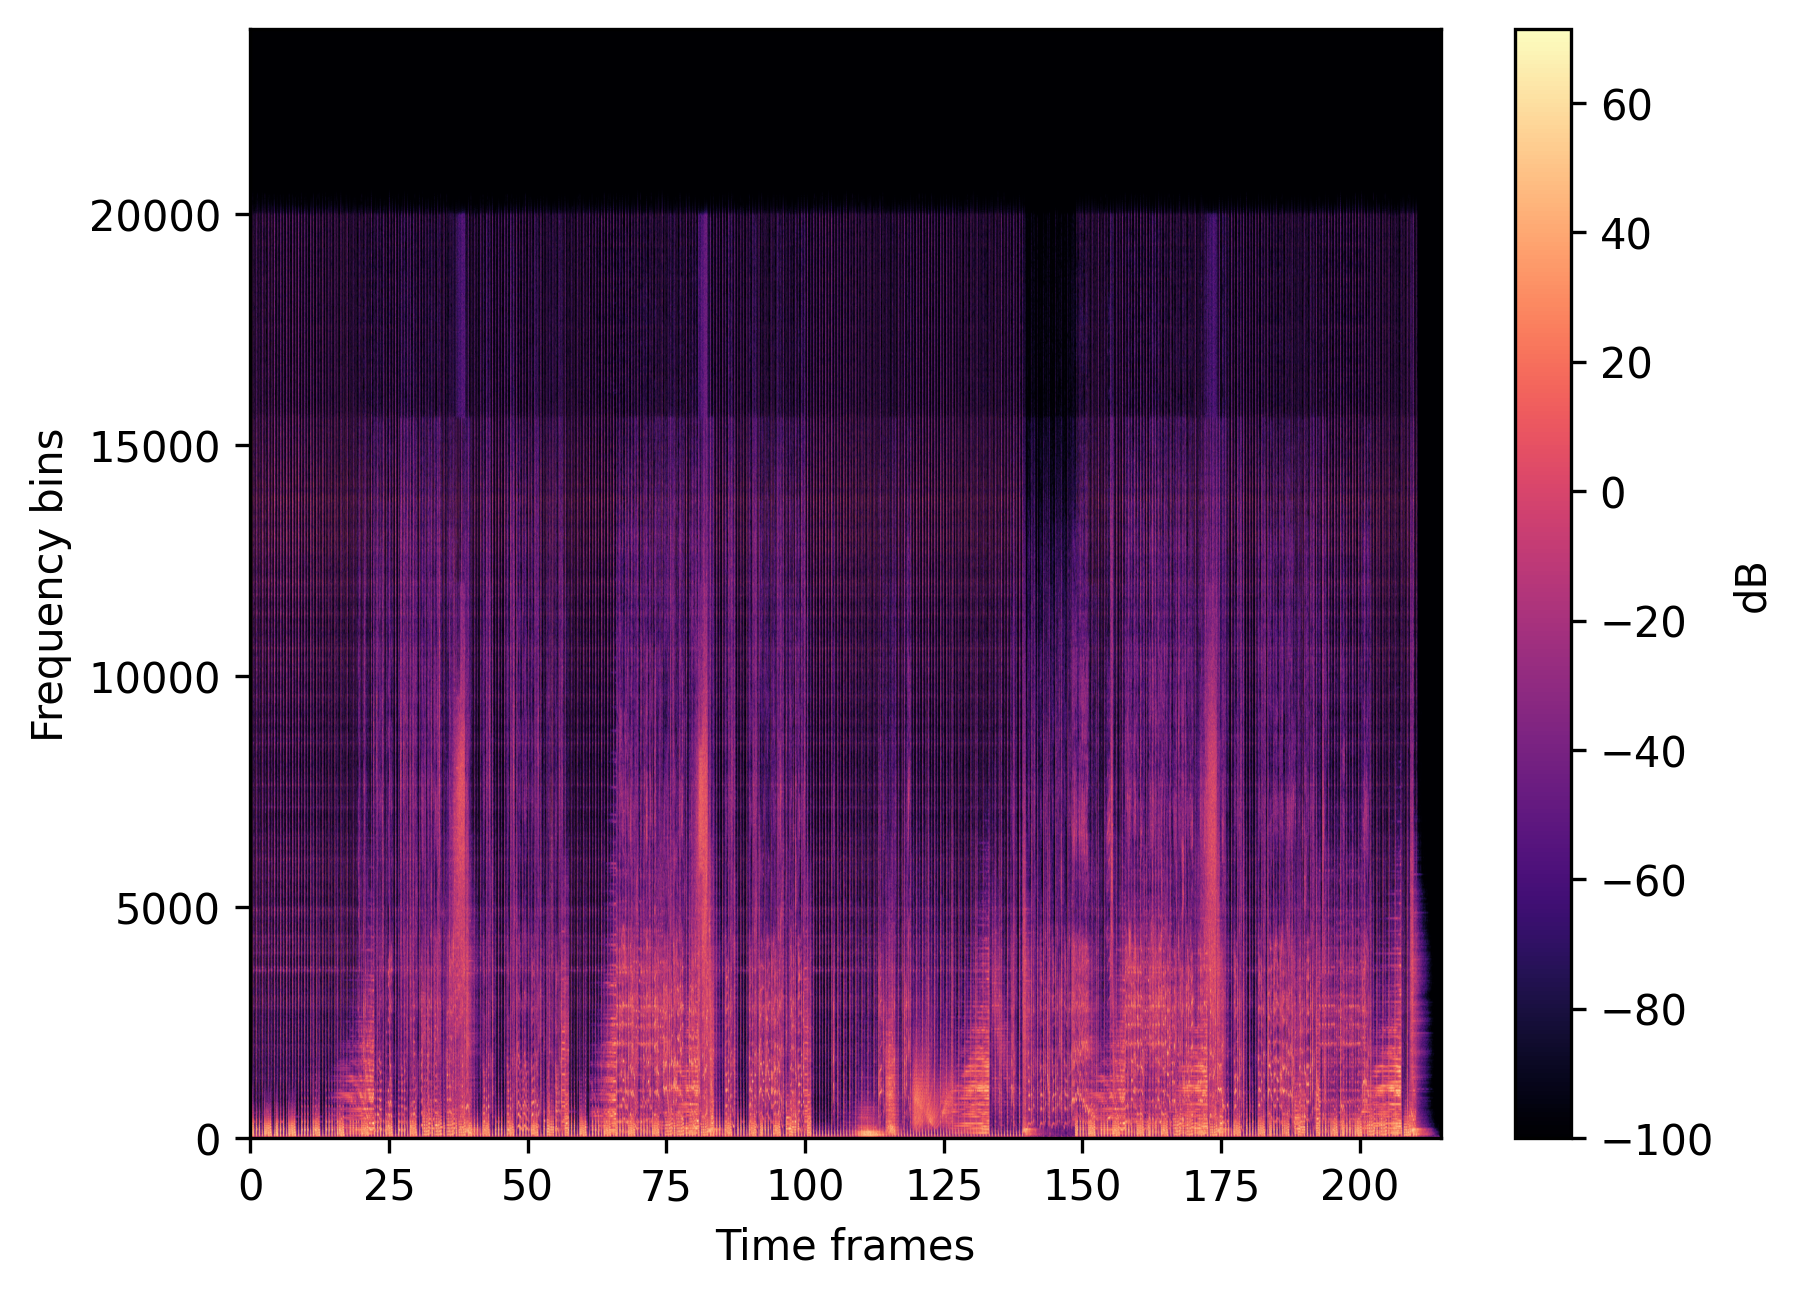
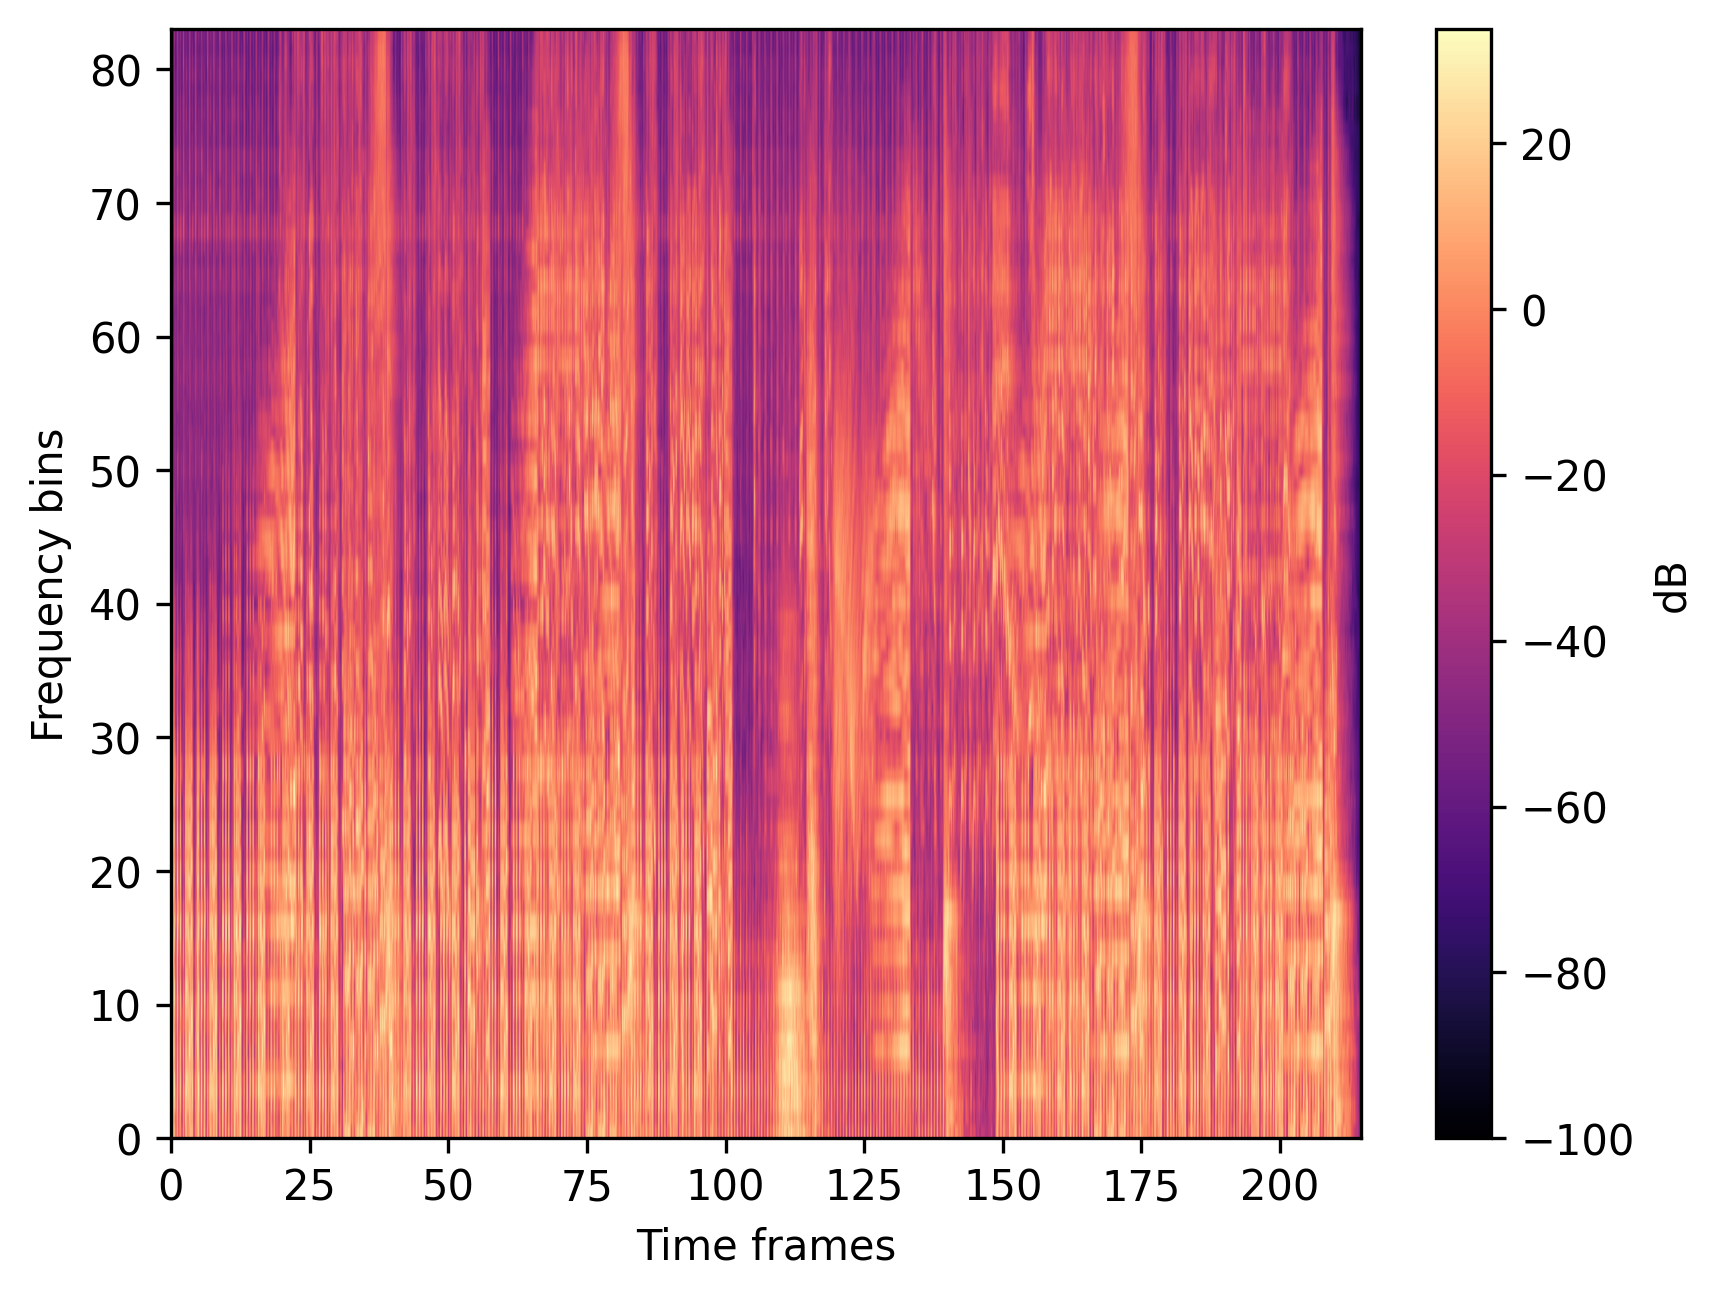
beginning work on hmm/viterbi

diff --git a/BPM_estimation_proj/src/components/note_detection/note_detection.py b/BPM_estimation_proj/src/components/note_detection/note_detection.py
@@ -8,7 +8,7 @@ from ..visualization import display_spectrogram, display_chromagram, display_ssm
 from .ssm import self_similarity_matrix
 
 
-def chord_analyzer(path, filename):
+def stft_chord_analyzer(path, filename):
     try:
         y, sample_rate = librosa.load(path, sr=None)
     except FileNotFoundError:
@@ -23,18 +23,18 @@ def chord_analyzer(path, filename):
     hop_time = hop_len / sample_rate
     
     spectrum = spectrogram(framed_audio)
-
+    print("spectrogram done")
     display_spectrogram(spectrum, hop_time, filename, bin_size)
 
     spectrum = freq_range(spectrum, frame_len, sample_rate, hop_len)
 
     #start freq must be a multiple of the bin_size for accuracy
     sheet = note_detection(spectrum.full_range[round(bin_size*frame_len/sample_rate):], bin_size, start_freq=bin_size)
-
+    print("chromagram done")
     display_chromagram(sheet, filename)
 
     chord_analysis, max_chord_analysis, chord_string, labels = match_chord(sheet)
-    print(labels)
+    print("chordogram done")
 
     display_chords(max_chord_analysis, numpy.array(labels), filename)
 
@@ -49,8 +49,45 @@ def chord_analyzer(path, filename):
 
     display_ssm(sheet, hop_time, filename, factor)
 
-    print("would you like to analyze another song? (y/n)")
-    choice = input().lower()
+    choice = input("Would you like to analyze another song? (y/n): ")
+    choice = choice.lower()
+    if choice == 'y':
+        return True
+    else:
+        print("Thank you for using the BPM estimator!")
+        return False
+
+def cqt_chord_analyzer(path, filename):
+    try:
+        y, sample_rate = librosa.load(path, sr=None)
+    except FileNotFoundError:
+        print("File not found. Please check the file name and try again.")
+        return True
+    print(sample_rate)
+
+    y_harmonic, y_percussive = librosa.effects.hpss(y)
+    tuning = librosa.estimate_tuning(y=y_harmonic, sr=sample_rate)
+    fmin = librosa.note_to_hz('C1') * 2**(tuning / 12)
+    hop_len = 512
+    hop_time = hop_len/sample_rate
+
+    cqt = numpy.abs(librosa.cqt(y_harmonic, hop_length=hop_len, fmin=fmin, tuning=None))
+
+    display_spectrogram(cqt, hop_time, filename)
+
+    chromagram = cqt.reshape(7,12,cqt.shape[1]).sum(axis=0)
+
+    display_chromagram(chromagram, filename, hop_time)
+
+    chord_analysis, max_chord_analysis, chord_string, labels = match_chord(chromagram)
+    display_chords(max_chord_analysis, numpy.array(labels), filename)
+
+    totals = max_chord_analysis.sum(axis=1)
+    for i in numpy.argsort(totals)[::-1][:6]:
+        print(f"{labels[i]:10} {totals[i]:.1f}")
+    
+    choice = input("Would you like to analyze another song? (y/n): ")
+    choice = choice.lower()
     if choice == 'y':
         return True
     else:

diff --git a/BPM_estimation_proj/src/main.py b/BPM_estimation_proj/src/main.py
@@ -1,5 +1,5 @@
 from src.components.bpm_estimation import bpm_estimation
-from src.components.note_detection.note_detection import chord_analyzer
+from src.components.note_detection.note_detection import stft_chord_analyzer, cqt_chord_analyzer
 
 def main():
     restart = True
@@ -8,14 +8,23 @@ def main():
         filename = input("Please place the audio file in the music folder and enter the file name here: ")
         path = f"music/{filename}"
         while valid_choice:
-            choice = input("For bpm estimation type \"bpm\". For chord analysis type \"chord\".: ")
-            match choice.lower():
-                case "bpm":
+            choice = input("1 for bpm estimation, 2 for chord analysis: ")
+            print(choice)
+            match int(choice):
+                case 1:
                     restart = bpm_estimation(path, filename)
                     valid_choice = False
-                case "chord":
-                    restart = chord_analyzer(path, filename)
-                    valid_choice = False
+                case 2:
+                    choice = input("1 for CQT, 2 for STFT: ")
+                    match int(choice):
+                        case 1:
+                            restart = cqt_chord_analyzer(path, filename)
+                            valid_choice = False
+                        case 2:
+                            restart = stft_chord_analyzer(path, filename)
+                            valid_choice = False
+                        case _:
+                            print("not an option")
                 case _:
                     print("not an option")
         valid_choice = True

diff --git a/BPM_estimation_proj/src/components/visualization.py b/BPM_estimation_proj/src/components/visualization.py
@@ -1,7 +1,7 @@
 import matplotlib.pyplot as plt
 import numpy
 
-def display_spectrogram(spectrum, hop_time, filename, bin_size):
+def display_spectrogram(spectrum, hop_time, filename, bin_size = 1):
     spectrum_db =  20 * numpy.log10((spectrum / numpy.mean(spectrum)) + 1e-10)
     time_scale = numpy.arange(spectrum.shape[1]) * hop_time
     freq_scale = numpy.arange(spectrum.shape[0]) * bin_size
@@ -39,16 +39,16 @@ def display_tempogram(tempogram, bpm_scale, filename):
     plt.savefig(f"charts/{filename}_Tempogram.png", dpi = 300, bbox_inches = "tight")
     plt.clf()
 
-def display_chromagram(sheet, filename):
-    sheet = 20 * numpy.log10(sheet/numpy.max(sheet) + 1e-10)
-    sheet = numpy.maximum(sheet, -100)
+def display_chromagram(sheet, filename, hop_time):
+    sheet = sheet/(sheet.mean(axis=0, keepdims=True) + 1e-9)
+    time_scale = numpy.arange(sheet.shape[1]) * hop_time
     notes = ['C', 'C#', 'D', 'D#', 'E', 'F', 'F#', 'G', 'G#', 'A', 'A#', 'B']
     plt.imshow(
         sheet,
         origin = "lower",
         aspect = "auto",
         cmap = "magma",
-        extent = [0, sheet.shape[1], 0, 12]
+        extent = [time_scale[0], time_scale[-1], 0, 12]
         )
     plt.colorbar(label='note strength')
     plt.yticks(numpy.arange(12), notes)
@@ -74,7 +74,6 @@ def display_ssm(sheet, hop_time, filename, factor = 1):
     plt.clf()
 
 def display_chords(sheet, labels, filename):
-    sheet = 20 * numpy.log10(sheet/numpy.max(sheet) + 1e-10)
     print(sheet.shape)
     sheet = numpy.maximum(sheet, -100)
     print(labels.shape)

diff --git a/BPM_estimation_proj/src/components/note_detection/hmm_viterbi.py b/BPM_estimation_proj/src/components/note_detection/hmm_viterbi.py
@@ -1,0 +1,8 @@
+import librosa
+import numpy
+
+def scores_to_emissions(scores):
+    scores = numpy.maximum(scores, 0)
+    col_sums = scores.sum(axis=0, keepdims=True) + 1e-9
+    emissions = scores/col_sums
+    return emissions

diff --git a/BPM_estimation_proj/src/components/note_detection/__init__.py b/BPM_estimation_proj/src/components/note_detection/__init__.py
@@ -1,1 +1,1 @@
-from .note_detection import chord_analyzer
+from .note_detection import stft_chord_analyzer, cqt_chord_analyzer
